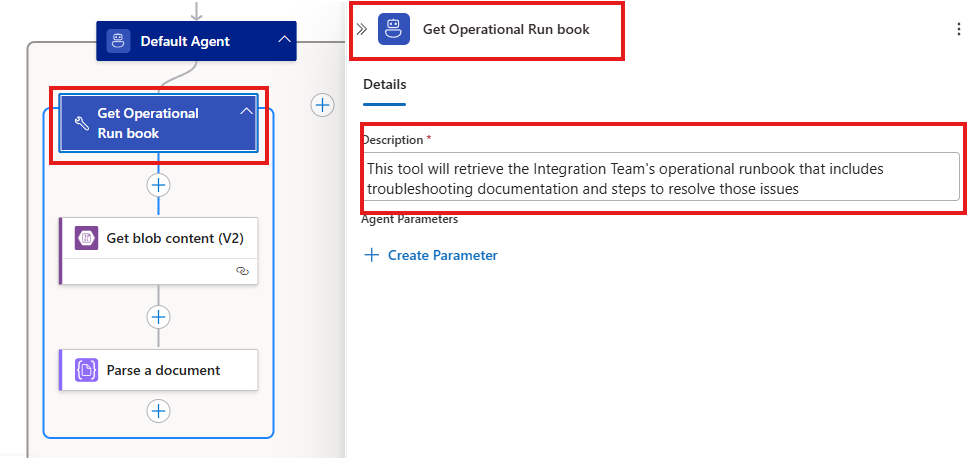
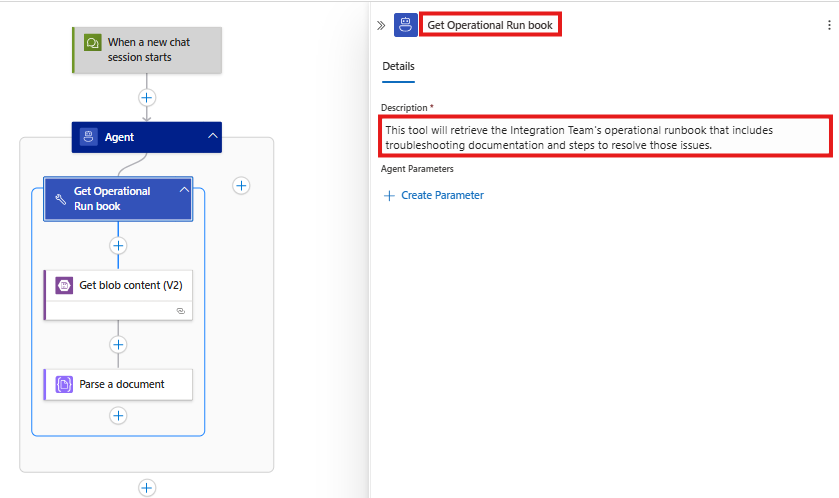
section 4:   - updated open ai model provisioning section 7:   - updated workflow  to match new UI experience

Changed region(s): [[0.0, 0.0, 0.3099, 1.0], [0.3099, 0.0, 1.0, 1.0]]

diff --git a/docs/logic-apps-agent-in-a-day/07_create_agent_loop_workflow.md b/docs/logic-apps-agent-in-a-day/07_create_agent_loop_workflow.md
@@ -28,7 +28,7 @@ In this module we will create and configure a conversational Agent Loop workflow
 
 1. Create an **Agent Workflow**:
     - **Workflow Name:** `demo-conversational-agent`
-    - Select `Agent (Preview)`
+    - Select `Conversational Agents (Preview)`
     - Click `Create`
 
     ![Create Agent Workflow](./images/07_04_create_new_agent_workflow.png "create agent workflow")
@@ -39,67 +39,11 @@ In this module we will create and configure a conversational Agent Loop workflow
 
 
 ## Configure Agent Workflow
-1. Configure the Trigger Activity. Since we are building a conversational agent, we need to use a Request trigger that allows the agent to be called from a chat surface/application.
-    - Click the `Add a trigger` activity 
-    
-        ![Add a Trigger](./images/07_06_add_a_trigger.png ("add a trigger"))
 
-    - Under the Built-in tools group, select `Request`
+1. In this step we will configure the **Agent** settings to connect to our Azure OpenAI instance created in [Module 3 - Enable OpenAI Model](03_enable_open_ai_model.md)
+    - Click on the **Agent**
 
-         ![Trigger Activity Request](./images/07_07_trigger_activity_request.png "trigger activity request")
-
-    -  Select the `When a HTTP request is received`
-
-        ![Trigger Activity When a HTTP request is received](./images/07_08_trigger_activity_when_a_http_request_is_received.png "trigger activity when a http request is received")
-
-    - Configure the activity:
-        - **Request Body JSON Schema**
-            ```JSON
-            {
-                "type": "object",
-                "properties": {
-                    "prompt": {
-                        "type": "string"
-                    }
-                }
-            }
-            ```
-        
-            ![Configure When a HTTP request is received](./images/07_09_when_a_http_request_is_received_configuration.png ("configure when a http trigger is received"))
-1. Add a Compose activity to parse out the prompt from the input request
-    - Add a new action
-    
-    ![Add an action](./images/07_10_add_an_action.png ("add an action"))
-    
-    - Search for and select the **Compose** activity
-
-    ![Add Compose action](./images/07_11_add_an_action_compose.png ("add compose action"))
-
-    - configure the activity as follows:
-        - Rename the activity to `Compose-Prompt`
-        - Inputs:
-            - When you click into the **input** text box, click on the lightening bolt
-
-            ![Compose Input Option](./images/07_12_configure_compose_input_option.png ("compose input options"))
-
-            - Under "When a HTTP request is received" select `Prompt`
-            
-            ![Compose Select Input](./images/07_13_configure_compose_select_file.png "compose select input")
-
-            after you have completed your configuration, the **Compose-Prompt** activity should look like this
-
-            ![Compose-Prompt Activity](./images/07_14_compose_after_configuraiton.png "compose prompt activity")
-
-1. In this step we will configure the **Default Agent** settings to connect to our Azure OpenAI instance created in [Module 3 - Enable OpenAI Model](03_enable_open_ai_model.md)
-    - Click on the **Default Agent**
-
-    ![Default Agent](./images/07_15_deafult_agent.png ("default agent"))
-
-    - Configure the Deployment Model
-        - **Deployment Model Name:** `gpt-4.1`
-        - Click `Connect`
-
-        ![Deployment Model Name](./images/07_16_deafult_agent_deployment_name.png "deployment model name")
+        ![Select Agent](./images/07_15_select_agent.png ("select agent"))
 
     - Configure Connection to Azure OpenAI as follows
         - **Connection Name:** `conn-open-ai`
@@ -107,7 +51,13 @@ In this module we will create and configure a conversational Agent Loop workflow
         - **Azure OpenAI Resource:** `select the instance created in [Module 3 - Enable OpenAI Model](03_enable_open_ai_model.md)
         - Click `Create New`
 
-        ![Azure OpenAI Connection Configuration](./images/07_17_deafult_agent_open_ai_connection.png (azure openai connection configuration"))
+        ![Azure OpenAI Connection Configuration](./images/07_17_agent_open_ai_connection.png (azure openai connection configuration"))
+
+    - Configure the Deployment Model
+        - **Deployment Model Name:** `gpt-4.1` (select from dropdown)
+        - Click `Connect`
+
+        ![Deployment Model Name](./images/07_16_agent_deployment_name.png "deployment model name")
 
 1. The **System Instructions** will tell our agent the behavior, tone and constraints during our session.  
     - Configure the **System Instructions** as follows
@@ -118,11 +68,7 @@ In this module we will create and configure a conversational Agent Loop workflow
 
         Please share your plan for addressing the issue by listing out step by step, include the severity and operational group noted in the operational runbook. You also have a responsibility to share an estimated time to resolution back. Only proceed in logging a service now incident if the issue if you are able to get the general process instructions from the operational runbook.  
         ```
-1. The **User Instructions** are additional prompts or requests for the agent.
-    - Configure the following **User Instructions**
-        ```
-        Please try to create and manage IT incident tickets submitted by IT Operations
-        ```
+
 1. Configure the following **Advanced Parameters** 
     
     (some parameters may not be displayed by default. Click on the dropdown to enable the missing advanced parameters)
@@ -132,13 +78,7 @@ In this module we will create and configure a conversational Agent Loop workflow
     - **Model Format:** `OpenAI`
     - **Model Version:** `2025-04-14`
 
-    ![Default Agent Parameter Config](./images/07_18_deafult_agent_parameter_config.png "default agent parameter config")
-
-1. The **Channels** settings allows you to control how the workflow's behaviour when interacting with users. For conversational agentic workflows, we will allow both input and output channels.
-    - Click on the `Channels` tab in the Default Agent configuration
-    - Select `Allow both input and output channels`
-
-    ![Default Agent Channels Config](./images/07_19_deafult_agent_channels_config.png "deafult agent channels config")
+    ![Agent Parameter Config](./images/07_18_agent_parameter_config.png "agent parameter config")
 
 ## Add Tool - Get Operational Runbook
 In this section we will add the first tool to retrieve and parse the operational runbook. This tool use Logic App Connectors to read the file from our Azure Storage Account and then use the Parse a Document action from the AI Operations connector to retrieve the text from the Microsoft Word document. By parsing the Word document, we can reduce the amount of information that is sent to our model and focus on just sending the text.
@@ -203,38 +143,28 @@ This will enable to Agent to use the operational runbook when responding to our 
 ## Testing your Workflow
 Now that we've connect workflow to OpenAI and created our first tool, lets test our workflow and see how it works.
 
-1. Click the `Run` dropdown and select the `Run` options
+1. Click the `Chat` button
 
-    ![Run Workflow](./images/07_30_run_workflow.png "run workflow")
+    ![Workflow Chat ](./images/07_30_workflow_chat.png "workflow chat")
 
-    you will receive a notification once your workflow has started
+    this will launch the chat console enabling you to interact with the workflow and agent.
 
-    ![Workflow Triggered](./images/07_31_run_workflow_triggered.png "workflow triggered")
+    ![Workflow Chat Playground](./images/07_31_workflow_chat_playground.png  "workflow chat playground")
 
-1. Navigate to the `Run history` for you workflow
-
-    ![Workflow Run History](./images/07_32_workflow_run_history.png "workflow run history")
-
-1. Locate the running instance and click on the identifier to open the execution and start the interactive chat session
-
-    ![Workflow Run History Executions](./images/07_33_workflow_run_history_exeuctions.png "run history executions")
-
-
-1. The initial chat will display the **System Instructions** as well as the **User Instructions** configured in the Agent Loop. The Agent will attempt to process the initial instructions and has responded with additional guidance.
-
-    ![Chat Initial Response](./images/07_34_workflow_chat_initial.png "chat initial response")
 
 1. Enter the first prompt describing the issue:
     ```
-    my database appears to be offline   
+    my database is offline   
     ```
     Note the response from the agent is requesting additional information that was specified in the system instructions. Also note the the Agent is sharing the next steps that will perform once the required information is provided.
 
     ![Agent Chat - Prompt 1 Issue Description](./images/07_35_workflow_chat_prompt1_error_description.png "agent chat prompt 1 Issue Description")
 
+    **Note** You maybe asked for specify the error before proceeding. If so, you can enter `Database Offline`
+
 1. Enter the next prompt detailing who the assigned team will be:
     ```
-    database
+    database team
     ```
     Note that now the agent has also successfully executed the **Get Operational Run book** tool and was able to use the information from the operational run book to locate the corresponding issue and retrieve the resolution steps, severity and the estimated time to resolution. 
     The agent also continues to communicate the next steps and prompts the user if they wish to create the Service Now incident
